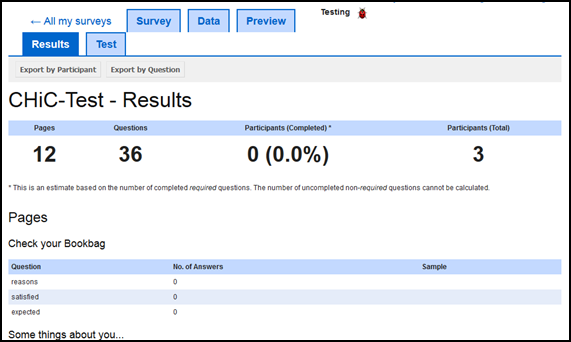
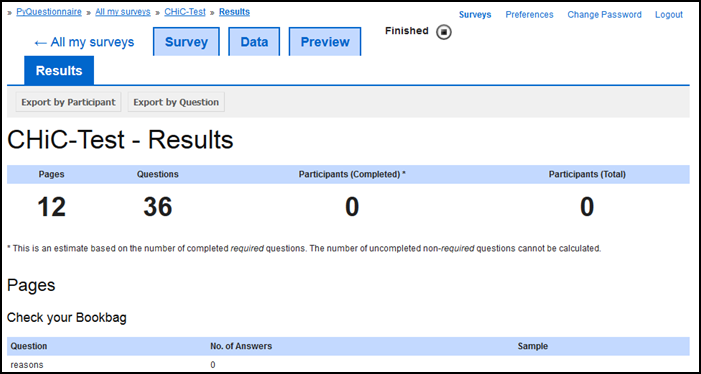
Today's work (29/08/13) - run_survey.rst file now complete ; get_data.rst near completion
--HG--
branch : documentation

diff --git a/docs/user/run_survey.rst b/docs/user/run_survey.rst
@@ -22,6 +22,7 @@ Running a survey
 .. |finish| image:: ../_static/user/finishButton.png
 .. |restart| image:: ../_static/user/restartButton.png
 .. |nextPage| image:: ../_static/user/nextPageButton.png
+.. |stopTest| image:: ../_static/user/stopTestMessage.png
 
 
 This chapter explains the following:
@@ -33,6 +34,8 @@ This chapter explains the following:
  3. how to start a survey - go to relevant section by clicking :ref:`here<startingSurvey>`. 
 
  4. how to pause or close a survey - go to relevant section by clicking :ref:`here<pausingSurvey>`. 
+ 
+ 5. how to re-start a survey - go to relevant section by clicking :ref:`here<restartingSurvey>`.
  
 .. _testingSurvey:
 
@@ -71,64 +74,126 @@ Before you go live with your survey, it is a good idea to test it. The test run 
 
 - This will direct you to the first page of the survey, where you can enter more data as described above.
 
-update(28th August) stopped here- Should you wish to have a look at how the results of the survey are recorded, click on the |results| tab, next to the the |testSurvButton| tab mentioned above.
+- Should you wish to have a look at how the results of the survey are recorded, click on the |results| tab, next to the the |testSurvButton| tab mentioned above.
 
-- By clicking on that tab, you should have been directed to the **Results** screen. An explanation of the *Results* screen will be given in :ref:`Downloading, creating, uploading and clearing data and datasets<get_data>`: 
+- By clicking on that tab, you should have been directed to the **Results** screen, a screenshot of which is provided below. An explanation of the *Results* screen is given in :doc:`Downloading, creating, uploading and clearing data and datasets<get_data>`: 
  
 .. image:: ../_static/user/resultsScreen.png
    :align: center
 
-- To navigate back to the **home page** (:doc:`ref<conceptsAndTerms>`) of your survey, click on the |surveyButton| button, located next to the |results| button mentioned above. Otherwise, if you want to navigate your list of surveys, click on the link |allSurveys|, next to the |surveyButton| button. 
+- To navigate back to the **home page** (:doc:`ref<conceptsAndTerms>`) of your survey, click on the |surveyButton| tab, located above the |results| tab. Otherwise, if you want to navigate your list of surveys, click on the link |allSurveys|, next to the |surveyButton| tab. 
 
-:ref:`back to the top <runSurvey>`
+:ref:`back to the top <runSurveySection>`
 
 .. _stopingTest:
 
 Stopping survey testing 
 -----------------------
-There are two ways to stop a survey depending on where in the system you are.
+There are three ways to stop a survey depending on where in the system you are.
 
-- If you are in the survey you are testing, click on the |stopTest| button, which now appears as part of the *Manipulation buttons* (:doc:`ref<survey_home_page_elements>`) above the title of the survey.
+**1.** If you are in the **Results** screen of the survey you are testing:
 
-- If you are in the main profile screen (:doc:`ref<conceptsAndTerms>`), find the correct survey from the list provided and click on the |stopTest| button from the set of buttons available.
+   **1.1.** Hover over the title **Testing** next to red bug, as indicated in the screenshot below, and a |stopTest| message will appear.
  
-In any case, by clicking on the above mentioned button, you will be directed to the survey's **home page** (:doc:`ref<conceptsAndTerms>`), where you can carry on editing the survey or starting the survey as shown below.
+		.. image:: ../_static/user/resultsStopTest.png
+				:align: center
 
-:ref:`back to the top <runSurvey>`
+   **1.2.** Click on that message and you will be led back to the **home page** (:doc:`ref<conceptsAndTerms>`) of the survey you are developing. As shown in the screenshot below, the status of the survey should have changed to **In development** with a little hammer next to it:
+
+		.. image:: ../_static/user/homePageInDevelopment.png
+				:align: center
+
+**2.** If you are in the **home page** (:doc:`ref<conceptsAndTerms>`) of the survey you are testing:
+
+   **2.1.** Click on the |stopTest| button, which now appears as part of the *Manipulation buttons* (:doc:`ref<survey_home_page_elements>`) above the title of the survey.
+   
+   **2.2.** As mentioned in the above option, this will lead you back to the survey's **home page** (:doc:`ref<conceptsAndTerms>`) and its status has now changed to **In development**. In addition to that, notice in the screenshot below that the |test| and |start| buttons have now replaced the |stopTest| button in the *Manipulation buttons* (:doc:`ref<survey_home_page_elements>`) above the title of the survey.
+
+**3.** If you are in the **main profile** screen (:doc:`ref<conceptsAndTerms>`), find the correct survey from your list of surveys and click on the |stopTest| button from the set of buttons available. An example of this is shown below:
+
+   .. image:: ../_static/user/stopTestSurvey.png
+           :align: center
+ 
+   **3.1.** After clicking on that button, you will be directed to the survey's **home page** (:doc:`ref<conceptsAndTerms>`), where you can carry on editing the survey or starting the survey as shown below.
+
+:ref:`back to the top <runSurveySection>`
 
 .. _startingSurvey: 
 
 Starting a survey
 -----------------
-As with the previous section, there are two ways to start a survey depending on where in the system you are.
+There are two ways to start a survey depending on where in the system you are.
 
-- If you are in the survey you are testing, click on the |start| button, which now appears as part of the **Manipulation buttons** (:doc:`ref<survey_home_page_elements>`) above the title of the survey.
+**1.** If you are in the survey you are testing, click on the |start| button, which now appears as part of the **Manipulation buttons** (:doc:`ref<survey_home_page_elements>`) above the title of the survey. The screenshot below shows you where this button is located:
 
-- If you are in the **main profile screen** (:doc:`ref<conceptsAndTerms>`), find the correct survey from the list provided and click on the |start| button from the set of buttons available.
+ .. image:: ../_static/user/startSurveyHome.png
+		 :align: center
 
-- Whichever way you click on the above mentioned button, you will be directed to the **home page** (:doc:`ref<conceptsAndTerms>`) of the survey running, an example of which is given below. 
+**2.** If you are in the **main profile screen** (:doc:`ref<conceptsAndTerms>`), find the correct survey from your surveys list and click on the |start| button from the set of buttons available. An example of this is provided below:
+
+ .. image:: ../_static/user/startSurvey.png
+		 :align: center
+		 
+**3.** Whichever way you click on the above mentioned button, you will be directed to the **home page** (:doc:`ref<conceptsAndTerms>`) of the survey running, an example of which is given below. 
 
 .. image:: ../_static/user/runningSurvey.png
    :align: center
     
-- On that screen, you will be notified of the live link for the survey (indicated by an oval with dotted borders) and that the survey's status has now changed to *Running* (indicated by a rectangular with dotted borders). 
+**4.** On that screen, you will be notified of the live link for the survey (indicated by an oval with dotted borders) and that the survey's status has now changed to *Running* (indicated by a rectangular with dotted borders). 
 
-- Distribute the live link to the experiment participants. Note that as more participants complete your survey, the **Participant** data in the *Stats* table on the right of the survey's **home page** (:doc:`ref<conceptsAndTerms>`) will change. The *Stats* table is indicated in the image above by a rectangular with dotted borders.
+**5.** Distribute the live link to the experiment participants. Note that as more participants complete your survey, the **Participant** data in the *Stats* table on the right of the survey's **home page** (:doc:`ref<conceptsAndTerms>`) will change. The *Stats* table is indicated in the image above by a rectangular with dotted borders.
 
-:ref:`back to the top <runSurvey>`
+:ref:`back to the top <runSurveySection>`
 
 .. _pausingSurvey: 
 
 Pausing or finishing a survey
 -----------------------------
-Note that the **Manipulation buttons** (:doc:`ref<survey_home_page_elements>`) on the survey's **home page** (:doc:`ref<conceptsAndTerms>`) have now slightly changed to include the |pause| and the |finish| buttons.
+Following the starting of a survey, the **Manipulation buttons** (:doc:`ref<survey_home_page_elements>`) on the survey's **home page** (:doc:`ref<conceptsAndTerms>`) have now slightly changed to include the |pause| and the |finish| buttons.
 
-- To pause the survey, simply click on the |pause| button. This will enable you to make changes to the survey without any participants answering questions that have or are likely to change. 
+**1.** To pause the survey:
 
-- Following the pause of your survey, you can then re-activate it by clicking on the |restart| button that has now appeared in the position of the |pause| button. 
+ **1.1.** Click on the |pause| button. This will enable you to make changes to the survey without any participants answering questions that have or are likely to change.
+ 
+ **1.2.** Following the click of the |pause| button, you will be taken back to the survey's home page, where the status of the survey would now show as **Paused**, as shown in the example screenshot below:
+ 
+    .. image:: ../_static/user/pausedSurvey.png
+			:align: center 
+ 
+ **1.3.** Following the pause of your survey and any changes you have possibly carried out, you can then re-activate it by clicking on the |restart| button that has now appeared in the position of the |pause| button.
 
-- To stop your survey from running, click on the |finish| button. This will take you to the **Results** screen, an example screenshot of which has been given further above, in the end of the sub-section :ref:`testingSurvey`. As mentioned above, an explanation of the **Results** screen will be given in the **Downloading, uploading and clearing data** section of this manual (:doc:`ref<get_data>`).
+**2.** To stop your survey from running:
 
-- You can also pause or stop your survey from running, from the **main profile screen** (:doc:`ref<conceptsAndTerms>`), by finding the survey in the list provided and clicking the |pause| and the |finish| buttons available.
+ **2.1.** Click on the |finish| button, of the **Manipulation buttons** (:doc:`ref<survey_home_page_elements>`).
+ 
+ **2.2.** You will be led to the **Results** screen, with the status of survey now changed to **Finished**:
+ 
+    .. image:: ../_static/user/finishedSurvey.png
+			:align: center
 
-:ref:`back to the top <runSurvey>`
+**3.** You can also pause or stop your survey from running, from the **main profile** screen (:doc:`ref<conceptsAndTerms>`), by finding the survey in the list provided and clicking the |pause| and the |finish| buttons available.
+
+:ref:`back to the top <runSurveySection>`
+
+.. _restartingSurvey: 
+
+Re-starting a survey
+--------------------
+**1.** After stopping the survey, you can also re-start it, should you need to gather more data for your experiment.
+ 
+**2.** As with most functionalities of this system, there are two ways doing this, depending on where in the system you are:
+
+   **2.1.** If you are in the **main profile screen** (:doc:`ref<conceptsAndTerms>`):
+
+	  **2.1.a.** Find the finished survey from your list of surveys.
+	  
+	  **2.1.b.** Click on the |restart| button available next to the survey's title, as shown below:
+	  
+	     .. image:: ../_static/user/restartSurvey.png
+			     :align: center 
+	  
+	  **2.1.c.** This will re-start the finished survey and take you to its **home page** (:doc:`ref<conceptsAndTerms>`). From this point onwards, simply follow the instructions above for :ref:`pausing or stopping the survey<pausingSurvey>`.
+	  
+   **2.2.** If you are in the survey's **home page** (:doc:`ref<conceptsAndTerms>`), click on the |restart| button of the **Manipulation buttons** (:doc:`ref<survey_home_page_elements>`). This will change the status of the survey to **Running** and provide with a link to distribute to the survey's participants.
+
+:ref:`back to the top <runSurveySection>`

diff --git a/docs/user/get_data.rst b/docs/user/get_data.rst
@@ -23,7 +23,7 @@
 
    The following sub-section assumes that you now know how to navigate to a specific survey on the relevant list or to a specific question in that survey. If you are not sure how to do this, please refer to the section *Navigating within PyQuestionnaire*, located at the bottom-half of the chapter :doc:`Access PyQuestionnaire<access_Questionnaire>`.
 
-.. _topSection:
+.. _topDataSection:
    
 Downloading, creating, uploading and clearing data and datasets 
 ---------------------------------------------------------------
@@ -42,11 +42,11 @@ In this sub-section you will learn how to work with data gathered from your expe
 Downloading data
 ^^^^^^^^^^^^^^^^
 
-- **From a survey**
+- **From a survey that has finished or is still running**
 
-  a) First, navigate to the required survey, if you are not already there.
+  a) First, navigate to the **home page** (:doc:`ref<conceptsAndTerms>`) of the required survey, if you are not already there.
   
-  b) Click on the |results| button, included in the **Navigation tabs** (:doc:`ref<survey_home_page_elements>`) of the survey's **home page** (:doc:`ref<conceptsAndTerms>`) screen. An example screenshot of this is shown below, where the above button is highlighted:
+  b) Click on the |results| tab, included in the **Navigation tabs** (:doc:`ref<survey_home_page_elements>`) of the survey's **home page** (:doc:`ref<conceptsAndTerms>`) screen. An example screenshot of this is shown below, where the above button is highlighted:
 	
   .. image:: ../_static/user/resultsHighlighted.png
    :align: center
@@ -56,7 +56,7 @@ Downloading data
   .. image:: ../_static/user/resultsScreen.png
    :align: center
 	
-  d) You will then have the choice to export results by participant, by clicking on the |participantButton| button, or by question, by clicking on the |questionButton| button.
+  d) You will then have the choice to export results by participant, by clicking on the |participantButton| button, or by question, by clicking on the |questionButton| button. As the screenshot above indicates, both buttons are located on the grey strip above the survey's title.
   
     d1.1) **If you choose to export results by participant**, then the following screen will appear: 
    
@@ -72,7 +72,7 @@ Downloading data
 		
 	   - Note that a list, entitled **Export Settings** is the main part of the above mentioned screen.
 	   
-	   - As the one-line instructions advise, below the list' title, you can select which questions to export and, where applicable, what data attribute to use to identify the original data-item. 
+	   - As the one-line instructions advise, below the list's title, you can select which questions to export and, where applicable, what data attribute to use to identify the original data-item. 
 	   
 	   - You can do this by ticking/unticking the boxes that appear next to the title of each question on the provided list.
 	   
@@ -97,13 +97,17 @@ Downloading data
 	   .. image:: ../_static/user/exportQuestion.png
 	      :align: center
 
-	   - The only setting you can change on this screen is the value that will appear in your data set when a field has not been answered. 
+	   - One of the settings you can change on this screen, is the value that will appear in your data set when a field has not been answered. 
 	   
 	   - As with the option to **Export by Participant**, discussed above, you can do this by typing an appropriate message in the field *Non-answered value*, located below the title **Export Settings** at the top of the screen.
 	   
-	   - When you are done with the above, click on |updateSettings| button, located on the right of your screen, just below the field *Non-answered value*.
+	   - When you are done with the above, click on the |updateSettings| button, located on the right of your screen, just below the field *Non-answered value*.
 	   
 	   - By clicking that button, the webpage will refresh and a sample of how your extracted will look like, will be provided under the title *Sample Data* at the bottom of the screen.
+	   
+	   - In addition to the above, you can tick in the box under the title **SPSS Safe Columns**, which will change the column titles of your data to a format recognisable by SPSS.
+	   
+	   - As mentioned above, remember to click on the |updateSettings| button for this change to be applied to your survey.
 	   
 	    .. Important:: 
 	   
@@ -113,9 +117,9 @@ Downloading data
 	   
 	   - Upon clicking that button, a prompt message will appear asking you to save the relevant .csv file on your computer.
 	   
-	   - To navigate back to your **Results** screen, click on the |results| button at the top of the screen.
+	   - To navigate back to your **Results** screen, click on the |results| tab at the top of the screen.
 
-:ref:`back to the top <topSection>`
+:ref:`back to the top <topDataSection>`
 	   
 - **From a survey question**
 
@@ -139,7 +143,7 @@ Downloading data
   
 .. Important:: *Downloading data from a survey question, works only after uploading data to it. The relevant process is explained in the sub-subsection below.*
       
-:ref:`back to the top <topSection>`
+:ref:`back to the top <topDataSection>`
 
 .. _uploadData:
 
@@ -168,7 +172,7 @@ Data can only be uploaded to a specific survey question.
 
   g) You will then be able to edit the uploaded data as shown in the relevant sub-subsection below.
 
-:ref:`back to the top <topSection>`
+:ref:`back to the top <topDataSection>`
 
 .. _editData:
 
@@ -202,7 +206,7 @@ Editing the uploaded data
   
   k) Whichever you click on, you will be directed back to the **Data** screen. The only difference will be that if you added a record manually, this will appear at the end of the list of records in the **Data** screen.
 
-:ref:`back to the top <topSection>`
+:ref:`back to the top <topDataSection>`
 
 .. _clearData:
 
@@ -224,4 +228,4 @@ Last, but not least, is the option to clear any data you have uploaded before.
      .. image:: ../_static/user/noDataMessage.png
 	    :align: center
   
-:ref:`back to the top <topSection>`
+:ref:`back to the top <topDataSection>`

diff --git a/docs/user/edit_page.rst b/docs/user/edit_page.rst
@@ -385,12 +385,10 @@ The page's title will be used to refer to the relevant question, when you export
 		
 		   As already mentioned above, this field is connected to the *Data Set*, the functionality of which is explained in the sub-subsection **Downloading data** of the sub-section :doc:`Downloading, uploading and clearing data and datasets <get_data>`
 		
-		3. Add a *Control Item* to the question by typing the number of *Data Items* you require for your survey in the relevant field.
+		3. Add a *Control Item* to the question by typing the number of *Data Items* you require for your survey in the relevant field. A definition of the *Control Item* is provided :doc:`here <conceptsAndTerms>`.
 		
 		   .. image:: ../_static/user/dataItems.png
 				   :align: center
-				   
-		   The *Control Item* option allows you to use a question, for which you expect a particular answer to, as a safeguard showing you whether a participant is doing the survey properly. If the participant has not given the answer you expected in that particular question, you can discard their answers to avoid having skewed results.
 				   
 		4. Choose whether you would like the question numbers to be shown, by using the drop-down menu of the field *Show Question Numbers*. 
 		

diff --git a/docs/user/conceptsAndTerms.rst b/docs/user/conceptsAndTerms.rst
@@ -14,6 +14,6 @@ Concepts and Terms
 	 .. image:: ../_static/user/originalHomePageSurveyScreen.png	
 
   *Main Profile Screen*
-	 refers to the screen that automatically appears when you login the system. An example screenshot is provided below
+	 refers to the screen that automatically appears when you login the system. This is the list of surveys you are running, testing or developing. An example screenshot is provided below:
 	 
 	 .. image:: ../_static/user/profileScreen.png
